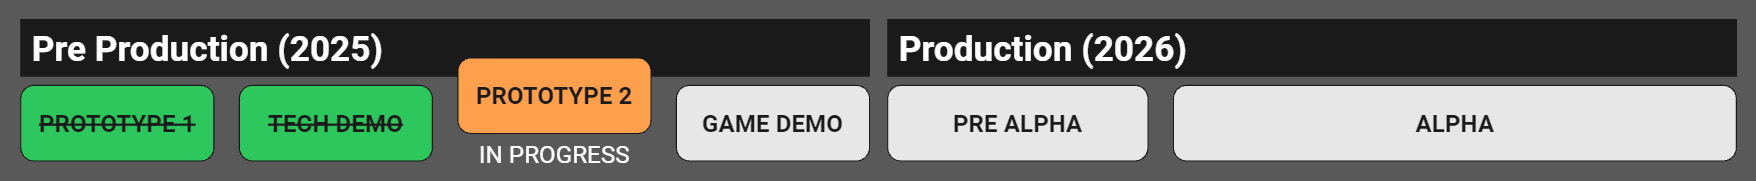
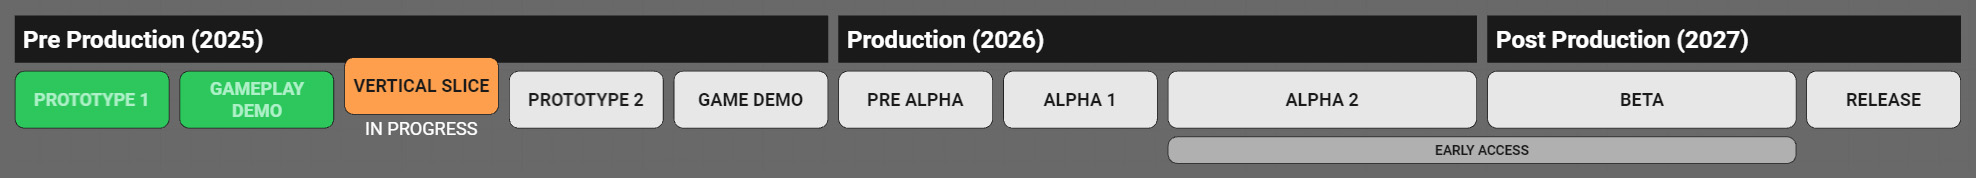
warkings page

diff --git a/warkings.html b/warkings.html
@@ -70,18 +70,17 @@
             <p>VIDEO OF TECH DEMO (14 April 2025)</p>
             <p>It is of the "Battles" game mode, played 1v1 vs a RoboPlayer.</p>
             <iframe id="video" src="https://www.youtube.com/embed/h7trYgzalYQ?si=k1Uecr3Np7mh-tBp" title="YouTube video player" frameborder="0" allowfullscreen></iframe>
-            <p>*I'm looking into making the Tech Demo avilable somewhere.</p>
+            <p>*If you're interested in playing the Gameplay Demo, it is available on <a title="Warkings on itch.io" target="_blank" href="https://benerot.itch.io/warkings">itch.io/warkings</a></p>
         </div>
 
         <hr>
 
         <div id="GameInfo">
-            <h1>Road Map</h1>
-            <p>WarKings is in Pre-Production. With a tiny-scope prototype and a Tech Demo completed, I'm now working on a second larger-scope prototype.</p>
-            <p>Prototype 2 will focus on solving War Scenarios, procedural map and mission generation, as well as introducing Faction Commanders.</p>
-            <p>Later, the Game Demo will be about crafting and incredible audio visual experience and set the quality bar sky high, before moving on to full Production in 2026.</p>            
+            <h1>Roadmap</h1>
+            <p>WarKings is in Pre-Production.</p>
+            <p>With a Prototype and a Gameplay Demo completed I'm now working on a Vertical Slice; it will feature some of the flashier mechanics and high quality visuals.</p>
             <img src="images/Vulcan_Roadmap.jpg">
-            <p>WarKings will have land, air, and water units, as well as 4 factions; right now it only has "The Merc Army" faction (the other 3 are wilder!).</p>
+            <p>WarKings will have land, air, and water units, as well as various factions; right now it only has "The Merc Army" faction.</p>
         </div>
 
         <div id="MailingList">

diff --git a/Style_c02.css b/Style_c02.css
@@ -105,7 +105,7 @@ body{
     margin-bottom: 5px;
 }
 #GameInfo img{
-    width: 800px;
+    width: 900px;
     margin: 20px auto;
     display: block;
 }
